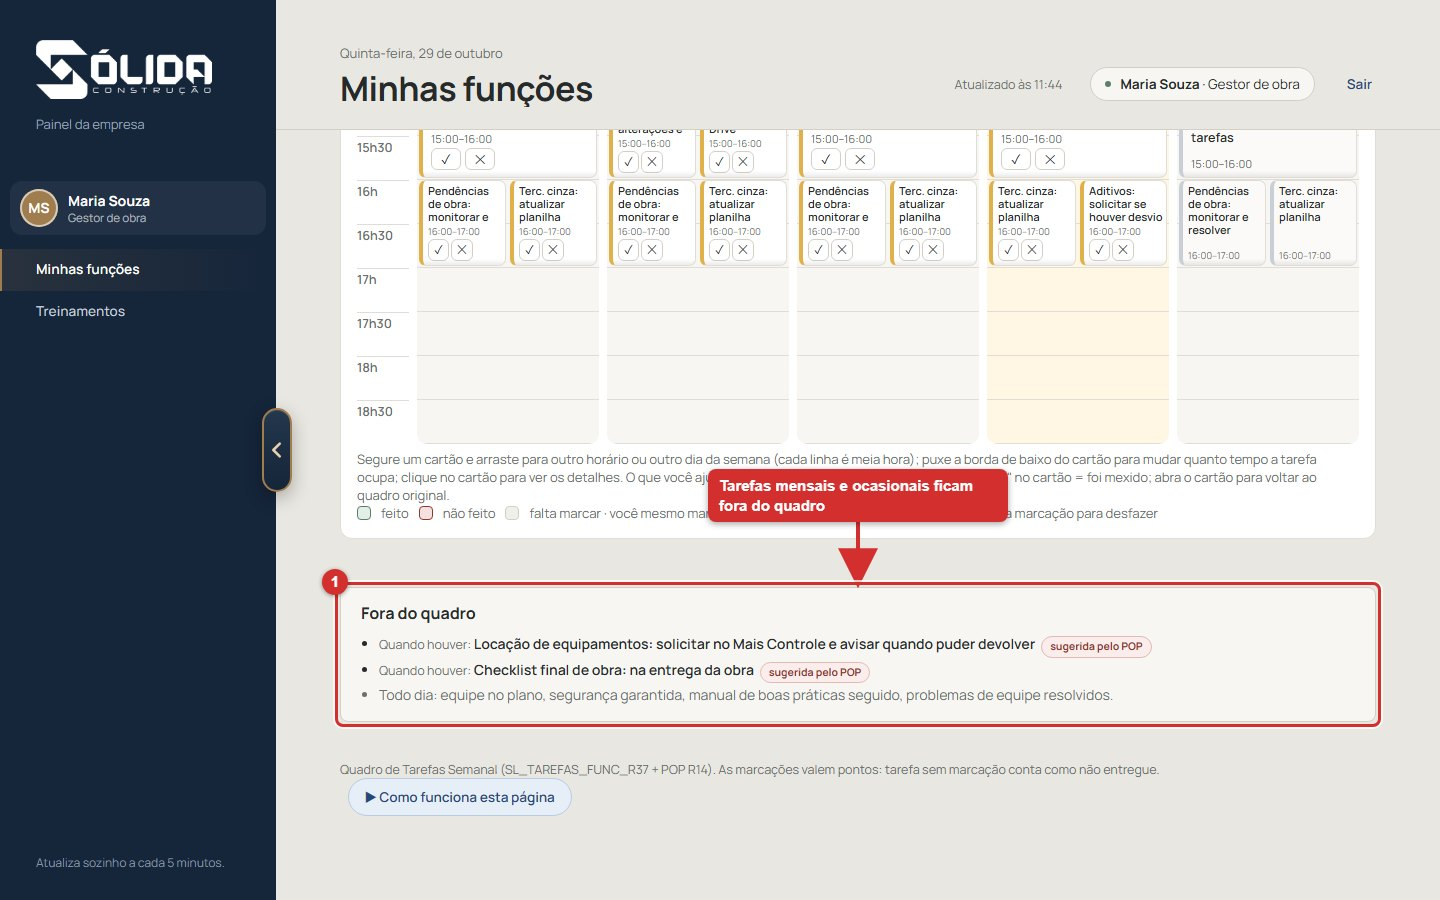
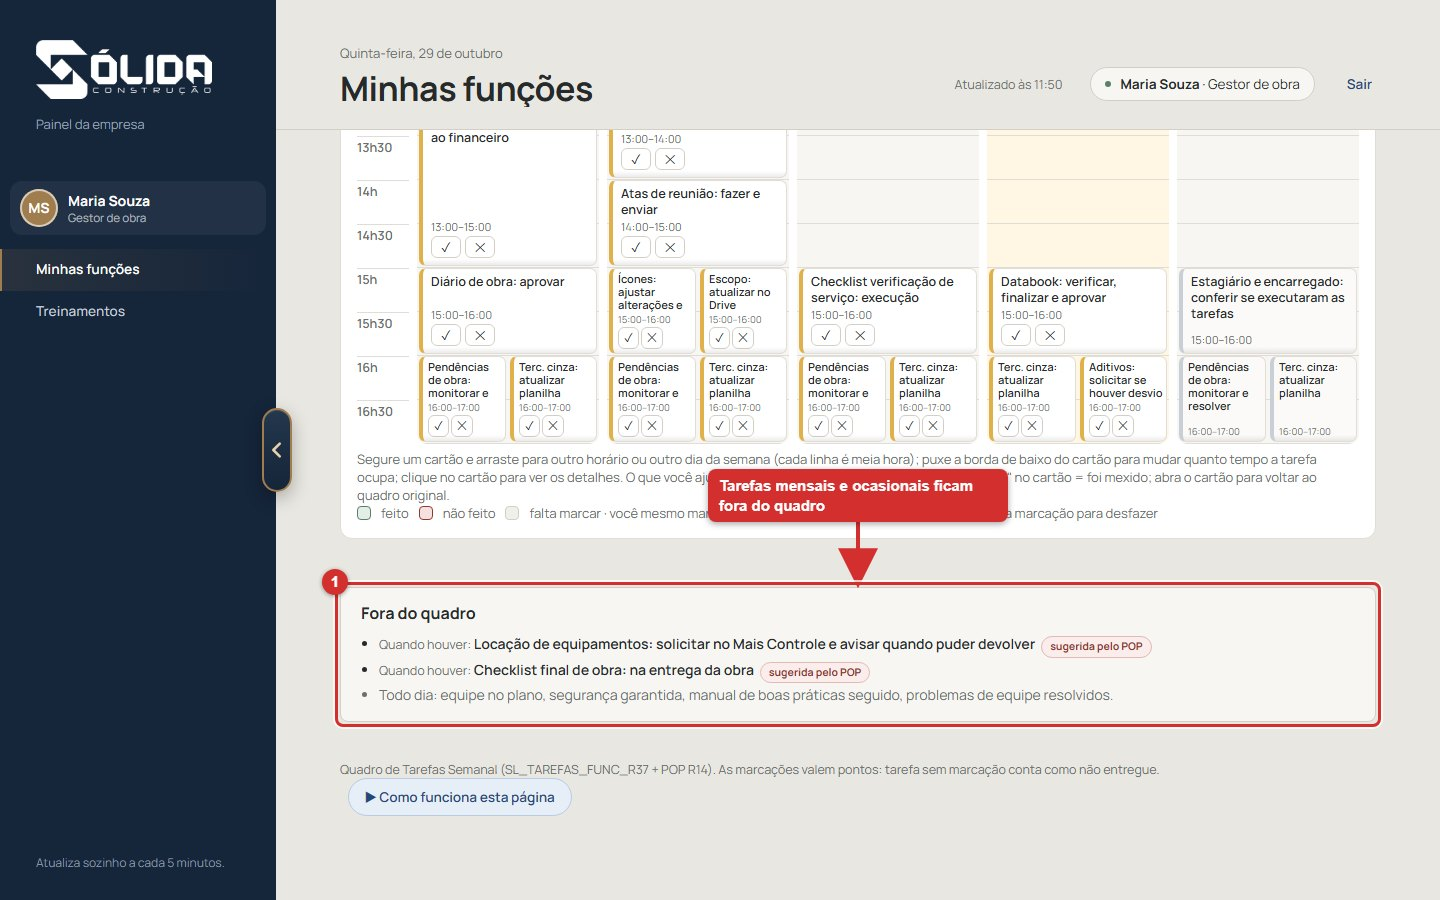
Minhas funcoes: agenda termina as 17h

Changed region(s): [[0.25, 0.1244, 0.9375, 0.4978]]

diff --git a/app/js/telas/meudia.js b/app/js/telas/meudia.js
@@ -38,11 +38,11 @@ export const ABAS = [
   { id: 'funcoes', nome: 'Funções' },
 ];
 
-// Quadro da semana (Funções): dias em colunas, horas na vertical (7h às 19h, faixas de 30 min).
+// Quadro da semana (Funções): dias em colunas, horas na vertical (7h às 17h, faixas de 30 min).
 // Cada tarefa é um cartão: arrastar muda o dia/horário, puxar a borda de baixo muda a duração, clicar abre
 // uma janelinha com os detalhes (e os mesmos ajustes, para quem está no celular). Cartões no mesmo horário
 // ficam lado a lado, com o texto cortado em "…". O ajuste fica guardado neste navegador, por dia da tarefa.
-export const GRADE = { ini: 7 * 60, passo: 30, faixas: 24, alt: 44 };   // alt = altura de cada meia hora (maior = cartões com o texto inteiro)
+export const GRADE = { ini: 7 * 60, passo: 30, faixas: 20, alt: 44 };   // alt = altura de cada meia hora (maior = cartões com o texto inteiro)
 const PADRAO = 8 * 60; // sem horário no quadro: começa às 8h
 function previsto(t) {
   const txt = String(t.hora || '');
